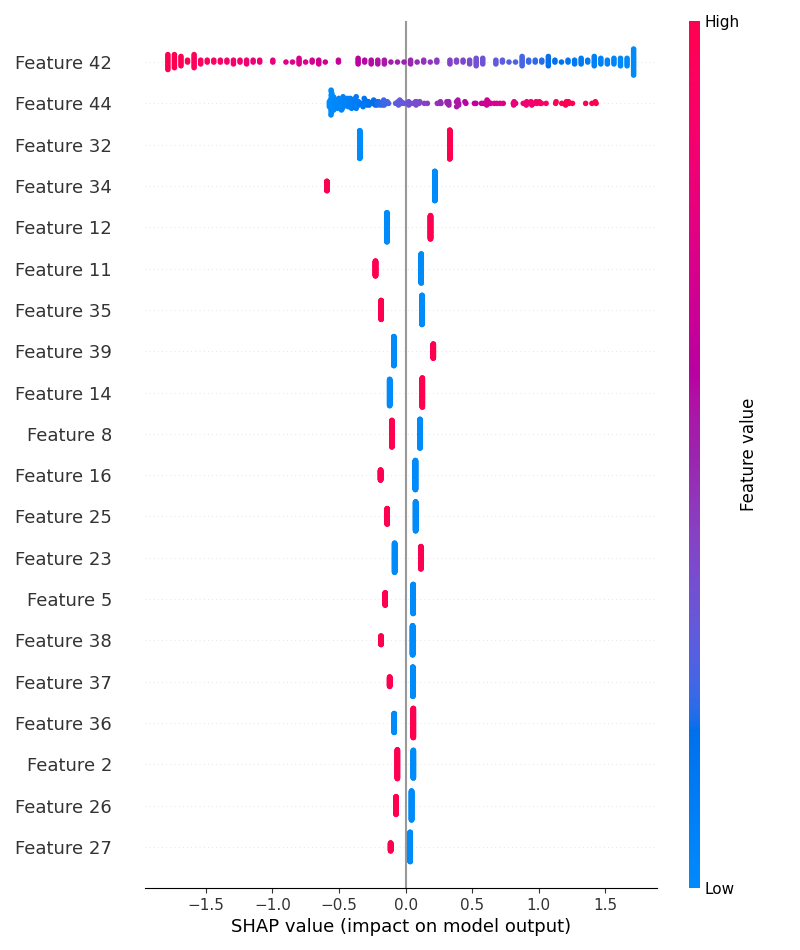
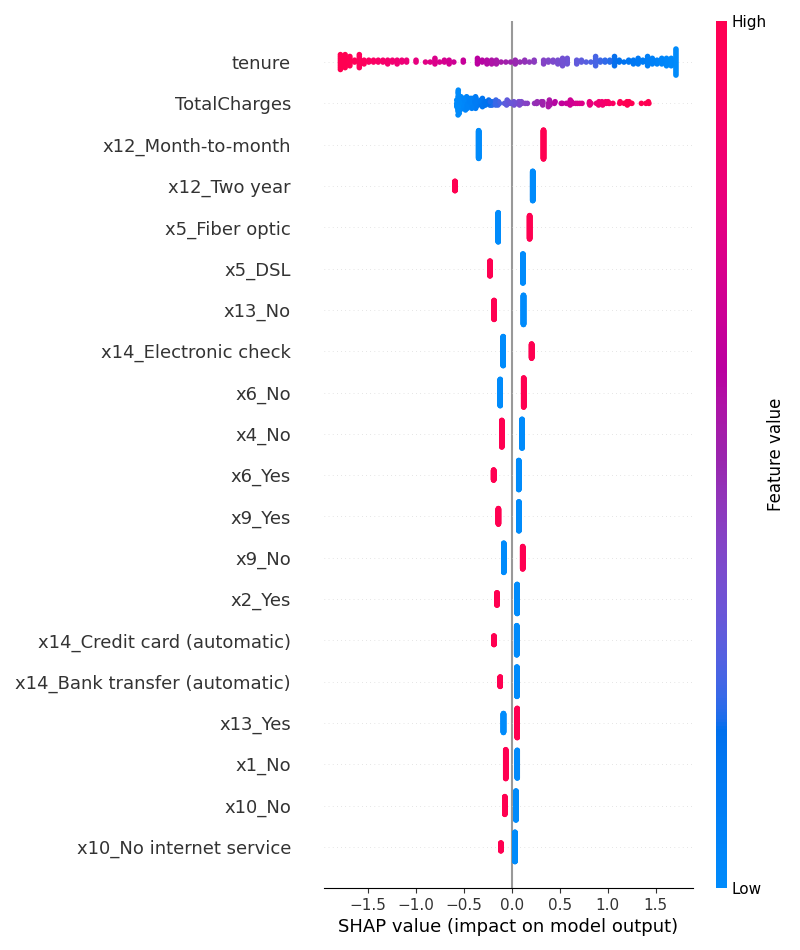
updating explainability features

diff --git a/models/explain_baseline_model.py b/models/explain_baseline_model.py
@@ -1,3 +1,10 @@
+"""
+Model explainability script using SHAP.
+- Provide global and local explanations for the baseline model
+- Support trust, debugging, and monitoring decisions
+- Ensure explanations are consistent with training schema
+"""
+
 import pandas as pd
 import shap
 import joblib
@@ -9,7 +16,14 @@ import matplotlib.pyplot as plt
 MODEL_PATH = Path("models/baseline_model.joblib")
 REFERENCE_DATA_PATH = Path("data/reference/reference_data.csv")
 OUTPUT_DIR = Path("models/explainability")
+
 OUTPUT_DIR.mkdir(parents=True, exist_ok=True)
+
+# Constants
+TARGET_COLUMN = "Churn"
+POSITIVE_LABEL = "Yes"
+SAMPLE_SIZE = 200
+
 
 def main():
     # Loading trained pipeline
@@ -17,42 +31,78 @@ def main():
 
     # Loading reference data
     df = pd.read_csv(REFERENCE_DATA_PATH)
-    X = df.drop(columns=["Churn"])
 
-    # Using a small sample for SHAP
-    X_sample = X.sample(n=200, random_state=42)
+    # Schema consistency (must be same training)
+    if "TotalCharges" in df.columns:
+        df["TotalCharges"] = pd.to_numeric(df["TotalCharges"], errors="coerce")
 
-    # Splitting pipeline into preprocessing + classifier
+    for col in df.select_dtypes(include=["object"]).columns:
+        df[col] = df[col].astype(str)
+
+    X = df.drop(columns=[TARGET_COLUMN])
+
+    # Sample data for explainability
+    X_sample = X.sample(n=SAMPLE_SIZE, random_state=42)
+
+
+    # Extracting pipeline components
     preprocessor = model.named_steps["preprocessing"]
     classifier = model.named_steps["classifier"]
 
-    # Transforming data into numeric feature space
+    # Transform features
     X_transformed = preprocessor.transform(X_sample)
 
-    # Build SHAP explainer on the classifier ONLY
-    explainer = shap.Explainer(classifier, X_transformed)
+    # Recovering feature names after preprocessing
+    cat_features = (
+        preprocessor.named_transformers_["cat"]
+        .named_steps["encoder"]
+        .get_feature_names_out()
+    )
 
-    # Compute SHAP values
-    shap_values = explainer(X_transformed)
+    num_features = preprocessor.transformers_[1][2]
 
-    # Global Explanation
+    feature_names = np.concatenate([cat_features, num_features])
+
+    X_transformed_df = pd.DataFrame(
+        X_transformed,
+        columns=feature_names
+    )
+
+    # SHAP Explainer setup 
+    explainer = shap.LinearExplainer(
+        classifier,
+        X_transformed_df,
+        feature_perturbation="interventional"
+    )
+
+    shap_values = explainer(X_transformed_df)
+
+    # Global explanation
     shap.summary_plot(
         shap_values.values,
-        X_transformed,
+        X_transformed_df,
         show=False
     )
     plt.tight_layout()
     plt.savefig(OUTPUT_DIR / "global_feature_importance.png")
     plt.close()
 
-    # Local Explanation
+    # Local explanation (single instance)
     shap.plots.waterfall(
-        shap_values[0],
-        show=False
+    shap.Explanation(
+        values=shap_values.values[0],
+        base_values=shap_values.base_values[0],  # Use the first base value
+        data=X_transformed_df.iloc[0],
+        feature_names=X_transformed_df.columns,
+    ),
+    show=False
     )
     plt.tight_layout()
     plt.savefig(OUTPUT_DIR / "local_explanation_instance_0.png")
     plt.close()
+
+    print("SHAP explainability artifacts generated successfully.")
+
 
 if __name__ == "__main__":
     main()
